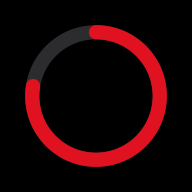
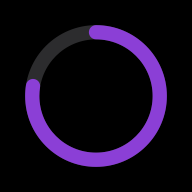
Swap the accent from red to purple
Same rationale as before: the brand accent stays out of the way of the
status colours (amber, burnt orange) that mean "running hot" or "spent",
so switching the brand colour itself is a one-variable change per theme.
Regenerated the app icon to match.

Claude-Session: https://claude.ai/code/session_01LKBxWFF7nxtujTSk6uJgSv

Changed region(s): [[0.125, 0.125, 0.875, 0.875]]

diff --git a/src/app/globals.css b/src/app/globals.css
@@ -4,10 +4,9 @@
 
 /*
  * Two themes, both monochrome-first with one sharp accent. Black, white, and
- * a single racing red — the accent is a brand colour, not a status colour,
- * so it never appears on a number that means "spent" or "over." That job
- * still belongs to amber and burnt orange, same as before: a coffee is still
- * not an emergency, red is just no longer the word for that.
+ * a single purple — the accent is a brand colour, not a status colour, so it
+ * never appears on a number that means "spent" or "over." That job still
+ * belongs to amber and burnt orange: a coffee is still not an emergency.
  */
 :root {
   --paper: #f5f5f7;
@@ -16,8 +15,8 @@
   --muted: #6e6e73;
   --faint: #86868b;
   --line: #d2d2d7;
-  --accent: #e1121f;
-  --accent-soft: #fdeceb;
+  --accent: #8b3fd6;
+  --accent-soft: #f4ecfb;
   --track: #e8e8ed;
 
   --ontrack: #2f8f4e;
@@ -40,8 +39,8 @@
     --muted: #98989d;
     --faint: #6e6e73;
     --line: #38383a;
-    --accent: #ff453a;
-    --accent-soft: #3a1210;
+    --accent: #bf5af2;
+    --accent-soft: #2c1a38;
     --track: #2c2c2e;
 
     --ontrack: #32d74b;

diff --git a/tailwind.config.ts b/tailwind.config.ts
@@ -1,10 +1,10 @@
 import type { Config } from 'tailwindcss';
 
 /**
- * Monochrome base, one racing-red accent. Status colours stay out of red's
- * way on purpose — amber and burnt orange, not red, still carry "running hot"
- * and "spent" — because a coffee is not an emergency and the brand colour
- * should never look like a warning.
+ * Monochrome base, one purple accent. Status colours stay off it on purpose
+ * — amber and burnt orange still carry "running hot" and "spent" — because a
+ * coffee is not an emergency and the brand colour should never double as a
+ * warning.
  */
 const config: Config = {
   content: ['./src/**/*.{ts,tsx}'],
